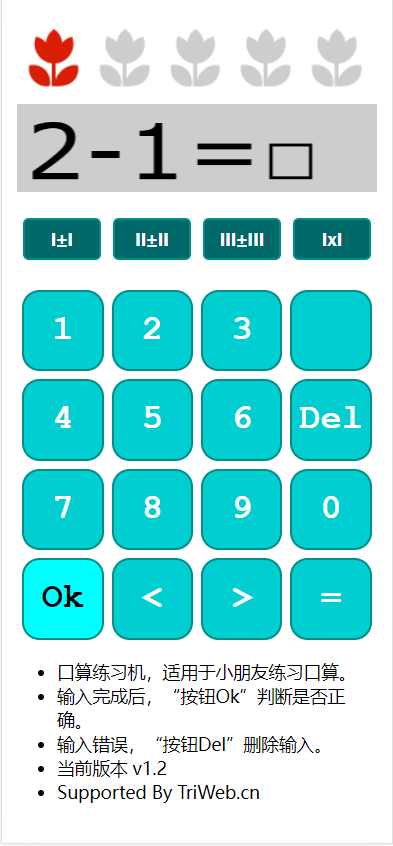
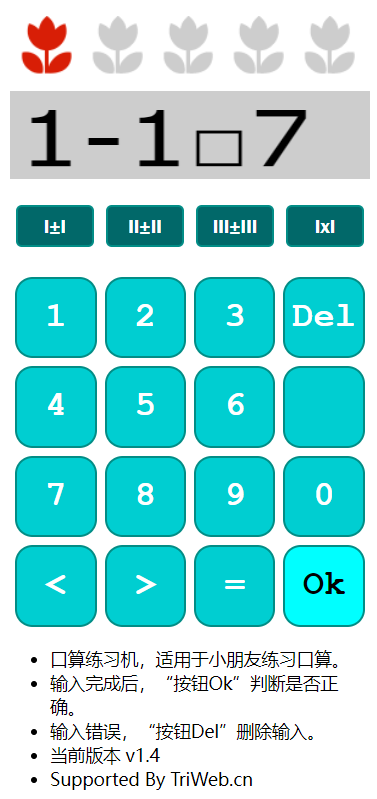
5-1 D

diff --git a/index.html b/index.html
@@ -36,13 +36,13 @@
             <div class="cell">1</div>
             <div class="cell">2</div>
             <div class="cell">3</div>
-            <div class="cell">&nbsp;</div>
+            <div class="cell">Del</div>
         </div>
         <div class="row">
             <div class="cell">4</div>
             <div class="cell">5</div>
             <div class="cell">6</div>
-            <div class="cell">Del</div>
+            <div class="cell">&nbsp;</div>
         </div>
         <div class="row">
             <div class="cell">7</div>
@@ -51,10 +51,10 @@
             <div class="cell">0</div>
         </div>
         <div class="row">
-            <div class="cell">Ok</div>
             <div class="cell">&lt;</div>
             <div class="cell">&gt;</div>
             <div class="cell">=</div>
+            <div class="cell">Ok</div>
         </div>
     </div>
     <div>
@@ -62,7 +62,7 @@
             <li>口算练习机，适用于小朋友练习口算。</li>
             <li>输入完成后，“按钮Ok”判断是否正确。</li>
             <li>输入错误，“按钮Del”删除输入。</li>
-            <li>当前版本 v1.3</li>
+            <li>当前版本 v1.4</li>
             <li>Supported By TriWeb.cn</li>
         </ul>
     </div>
